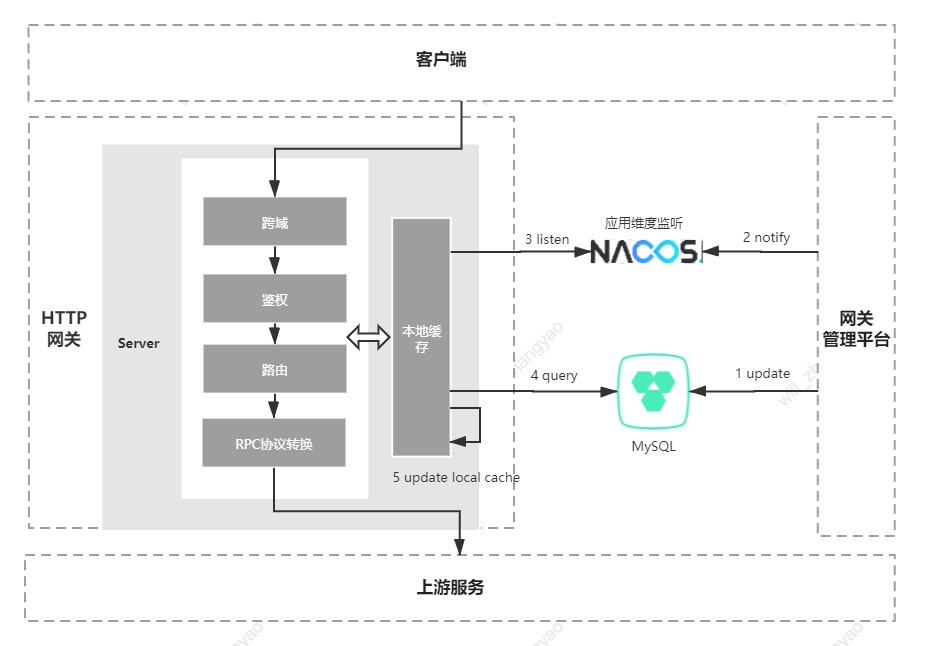
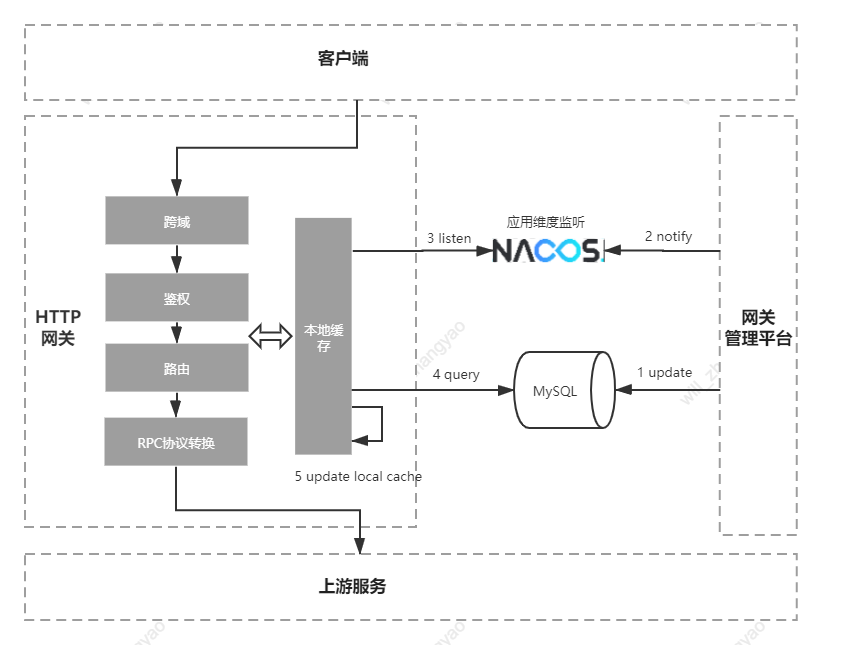
完善架构图，完善文档

diff --git a/README.md b/README.md
@@ -1,18 +1,8 @@
 ## FastIM
 > 🚀基于Netty高可用分布式即时通讯系统，支持长连接网关管理、单聊、群聊、登录登出、聊天记录查询、离线消息存储、消息推送、心跳、分布式唯一ID、红包、消息同步和漫游等功能，支持集群部署的分布式架构。
 
-## 一、项目结构
-- fastim-logic：逻辑服务，比如单聊、群聊、红包、离线等业务逻辑
-- fastim-client：客户端逻辑实现，实现发送消息、断线重连、SDK包等功能
-- fastim-gate-tcp：HTTP API网关实现，实现限流降级、版本路由、openAPI管理、协议转换、泛化调用等功能
-- fastim-gate-http：长连接TCP网关实现，实现自定义协议、channel管理、心跳检测、泛化调用等功能
-- fastim-leaf：分布式ID实现，基于zookeeper的实现或基于redis实现或完全基于内存的实现
-- fastim-router：路由逻辑服务，主要负责消息的路由转发，以及客户端在线状态的维护
-- fastim-common：共用类，主要是实体类和工具类的存放
-- fastim-lsb：LSB service，提供接入层IP和port来进行负载均衡的连接
-- fastim-das：数据访问层实现，封装一层，提供数据的增删改查入口
 
-## 二、功能
+## 一、功能
 * [x] [IM架构设计](#架构设计)
 * [x] [分布式ID设计](#消息ID生成机制)
 * [x] [IM表结构设计](#核心表结构设计)
@@ -38,8 +28,8 @@
 * [ ] 消息撤回
 * [ ] 消息已读
 
-## 三、快速启动
-## 四、系统设计
+## 二、快速启动
+## 三、系统设计
 ### 1. IM架构图
 基于可扩展性高可用原则，把网络层、业务逻辑层、数据层分离，并且支持分布式部署
 ![IM架构图](https://github.com/zhangyaoo/fastim/blob/master/pic/architecture.png)
@@ -56,13 +46,22 @@
 ![客户端序列号](https://github.com/zhangyaoo/fastim/blob/master/pic/sequenceId.png)
 
 设计：
-- 数据传输中的大小尽量小用int，不用bigint
+- 数据传输中的大小尽量小用int，不用bigint，节省传输大小
 - 只保证递增即可,在用户重新登录或者重连后可以进行日期重置，只保证单次
 - 客户端发号器不需要像类似服务器端发号器那样集群部署，不需要考虑集群同步问题
 说明：上述生成器可以用18年[(2^29-1)/3600/24/365]左右，一秒内最多产生4个消息
 
-优点：可以在断线重连和重装APP的情况下，18年之内是有序的
-缺点：每秒只能发4个消息，限制太大，对于群发场景不合适 
+- 优点：可以在断线重连和重装APP的情况下，18年之内是有序的
+- 缺点：每秒只能发4个消息，限制太大，对于群发场景不合适 
+- 改进：使用long进行传输，年限扩展很久并且有序
+
+##### 方案二
+设计：
+- 每次重新建立链接后进行重置，将sequence_id（int表示）从0开始进行严格递增
+- 客户端发送消息会带上唯一的递增sequence_id，同一条消息重复投递的sequence_id是一样的
+- 后端存储每个用户的sequence_id，当sequence_id归0，用户的epoch年代加1存储入库，单聊场景下转发给接收者时候，接收者按照sequence_id和epoch来进行排序
+
+- 优点：可以在断线重连和重装APP的情况下，接收者可以按照发送者发送时序来显示，并且对发送消息的速率没限制
 
 #### 2.1 LSB设计：
 1. 接入层的高可用、负载均衡、扩展性全部在这里面做
@@ -132,10 +131,7 @@ IM协议采用二进制定长包头和变长包体来实现客户端和服务端
 
 这里要注意的是，针对数据data，**网关gate层不做反序列化，反序列化步骤在service做**，避免重复序列化和反序列化导致的性能损失
 
-### 4. Session设计和管理
-
-
-### 5. 安全管理
+### 4. 安全管理
 1. 为防止消息传输过程中不被截获、篡改、伪造，采用TLS传输层加密协议
 2. 私有化协议天然具备一定的防窃取和防篡改的能力，相对于使用JSON、XML、HTML等明文传输系统，被第三方截获后在内容破解上相对成本更高，因此安全性上会更好一些
 3. 消息存储安全性:针对账号密码的存储安全可以通过“高强度单向散列算法”和“加盐”机制来提升加密密码可逆性；IM消息采用“端到端加密”方式来提供更加安全的消息传输保护。
@@ -149,7 +145,7 @@ IM协议采用二进制定长包头和变长包体来实现客户端和服务端
  - 对称加密传输内容，非对称加密传输密钥
 
 
-### 6. 消息管理
+### 5. 消息管理
 一个正常的消息流转需要如图所示的流程：
 ![IM核心流程图](https://github.com/zhangyaoo/fastim/blob/master/pic/IM-pic1.png)
 
@@ -513,6 +509,17 @@ update_time|datetime|更新时间
 1. 定时flush
 2. 满多少消息进行flush
 
+## 四、项目结构
+- fastim-logic：逻辑服务，比如单聊、群聊、红包、离线等业务逻辑
+- fastim-client：客户端逻辑实现，实现发送消息、断线重连、SDK包等功能
+- fastim-gate-tcp：HTTP API网关实现，实现限流降级、版本路由、openAPI管理、协议转换、泛化调用等功能
+- fastim-gate-http：长连接TCP网关实现，实现自定义协议、channel管理、心跳检测、泛化调用等功能
+- fastim-leaf：分布式ID实现，基于zookeeper的实现或基于redis实现或完全基于内存的实现
+- fastim-router：路由逻辑服务，主要负责消息的路由转发，以及客户端在线状态的维护
+- fastim-common：共用类，主要是实体类和工具类的存放
+- fastim-lsb：LSB service，提供接入层IP和port来进行负载均衡的连接
+- fastim-das：数据访问层实现，封装一层，提供数据的增删改查入口
+
 ## 五、性能测试
 ### 机器配置
 ### 5.0 网关性能测试
@@ -533,6 +540,7 @@ update_time|datetime|更新时间
    - 网络通信多一次网络通信，增加RT的时间，消息实时性对于IM即使通信的场景是非常注重的一个点
    - MQ的稳定性，不管任何系统只要引入中间件都会有稳定性问题，需要考虑MQ不可用或者丢失数据的情况
    - 需要考虑到运维的成本
+   - 当用消息中间代替路由层的时候，gate层需要广播消费消息，这个时候gate层会接收大部分的无效消息，因为这个消息的接收者channel不在本机维护的session中
    
    综上，是否考虑使用MQ需要架构师去考量，比如考虑业务是否允许、或者系统的流量等等影响因素。
    本项目基于使用成本、耦合成本和运维成本考虑，采用RPC的方案来实现。并且根据泛化调用，也能同样实现层级解耦。
@@ -570,7 +578,7 @@ update_time|datetime|更新时间
    A：gate会接收客户端的连接请求（被动），需要外网监听端口；entry会主动给logic发请求（主动）；entry会接收router给它的通知请求（被动），需要内网监听端口。一个端口对内，一个端口对外。
 
 10. Q：用户的在线状态，是维护在中央存储的redis中，还是维护在每个gate层内存中？
-
+                                             
    A：如果维护在每个gate层内存的话，router层无法知晓目标的用户会话在哪个gate层，只能通过MQ或者广播到gate层，然后gate层做过滤处理。这种处理方式的缺点就是会多消耗网络资源，好处也明显，不需要中央维护资源，高并发查询下会增加性能。如果维护在中央存储的话，相比各自存储不需要消耗太多的网络资源，但缺点就是需要维护中央存储的redis
 
 
@@ -588,9 +596,9 @@ update_time|datetime|更新时间
 
    A：在保证消息实时性的前提下，对于单聊，直接推送。对于群聊，由于群聊人数多，推送的话一份群消息会对群内所有的用户都产生一份推送的消息，推送量巨大。解决办法是按需拉取，当群消息有新消息时候发送时候，服务端主动推送新的消息数量，然后客户端分页按需拉取数据。
     
-4. Q：为什么除了单聊 群聊 推送等实时性业务，其他的业务都走http协议？
+4. Q：为什么除了单聊 群聊 推送 离线拉取等实时性业务，其他的业务都走http协议？
     
-   A：IM协议简单最好，如果让其他的业务请求混进IM协议中，会让其IM变的更复杂，比如离线消息拉取走http通道避免tcp 通道压力过大，影响即时消息下发效率。在比如上传图片和大文件，可以利用HTTP的断点上传和分段上传特性
+   A：IM协议简单最好，如果让其他的业务请求混进IM协议中，会让其IM变的更复杂，比如查找离线消息记录拉取走http通道避免tcp 通道压力过大，影响即时消息下发效率。在比如上传图片和大文件，可以利用HTTP的断点上传和分段上传特性
    
 ## 七、Contact
 - 网站：zhangyaoo.github.io
